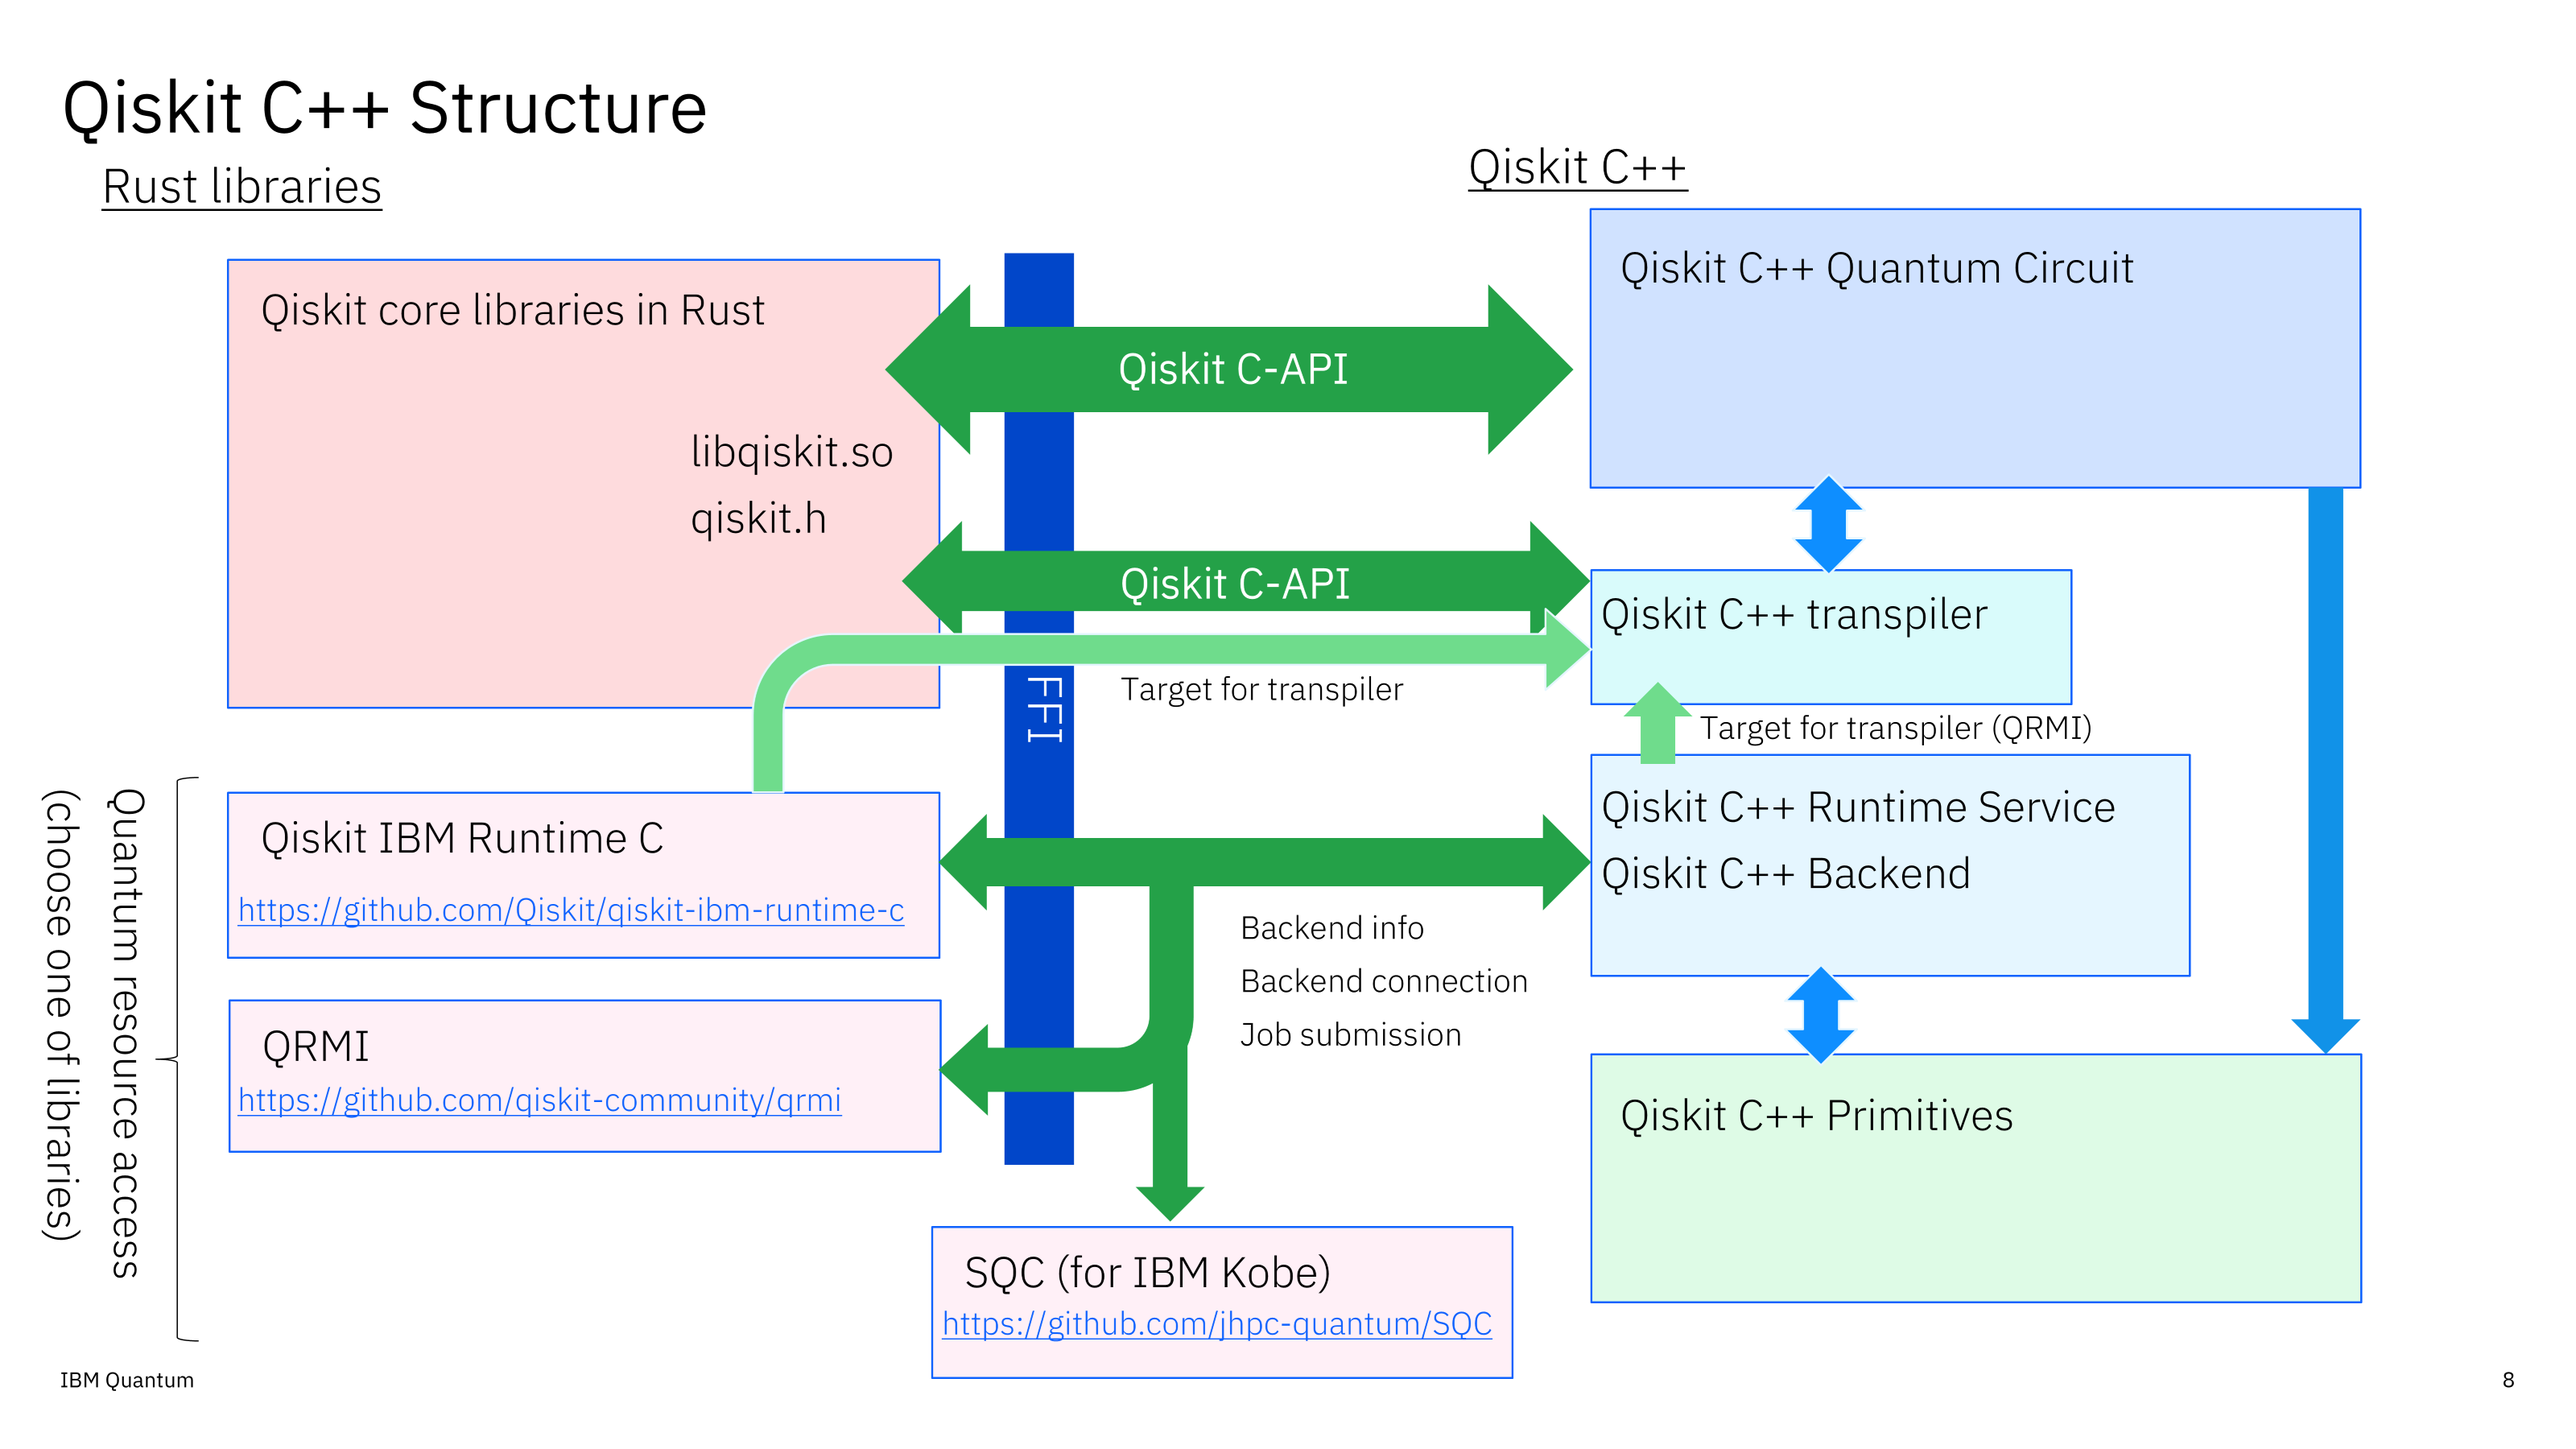
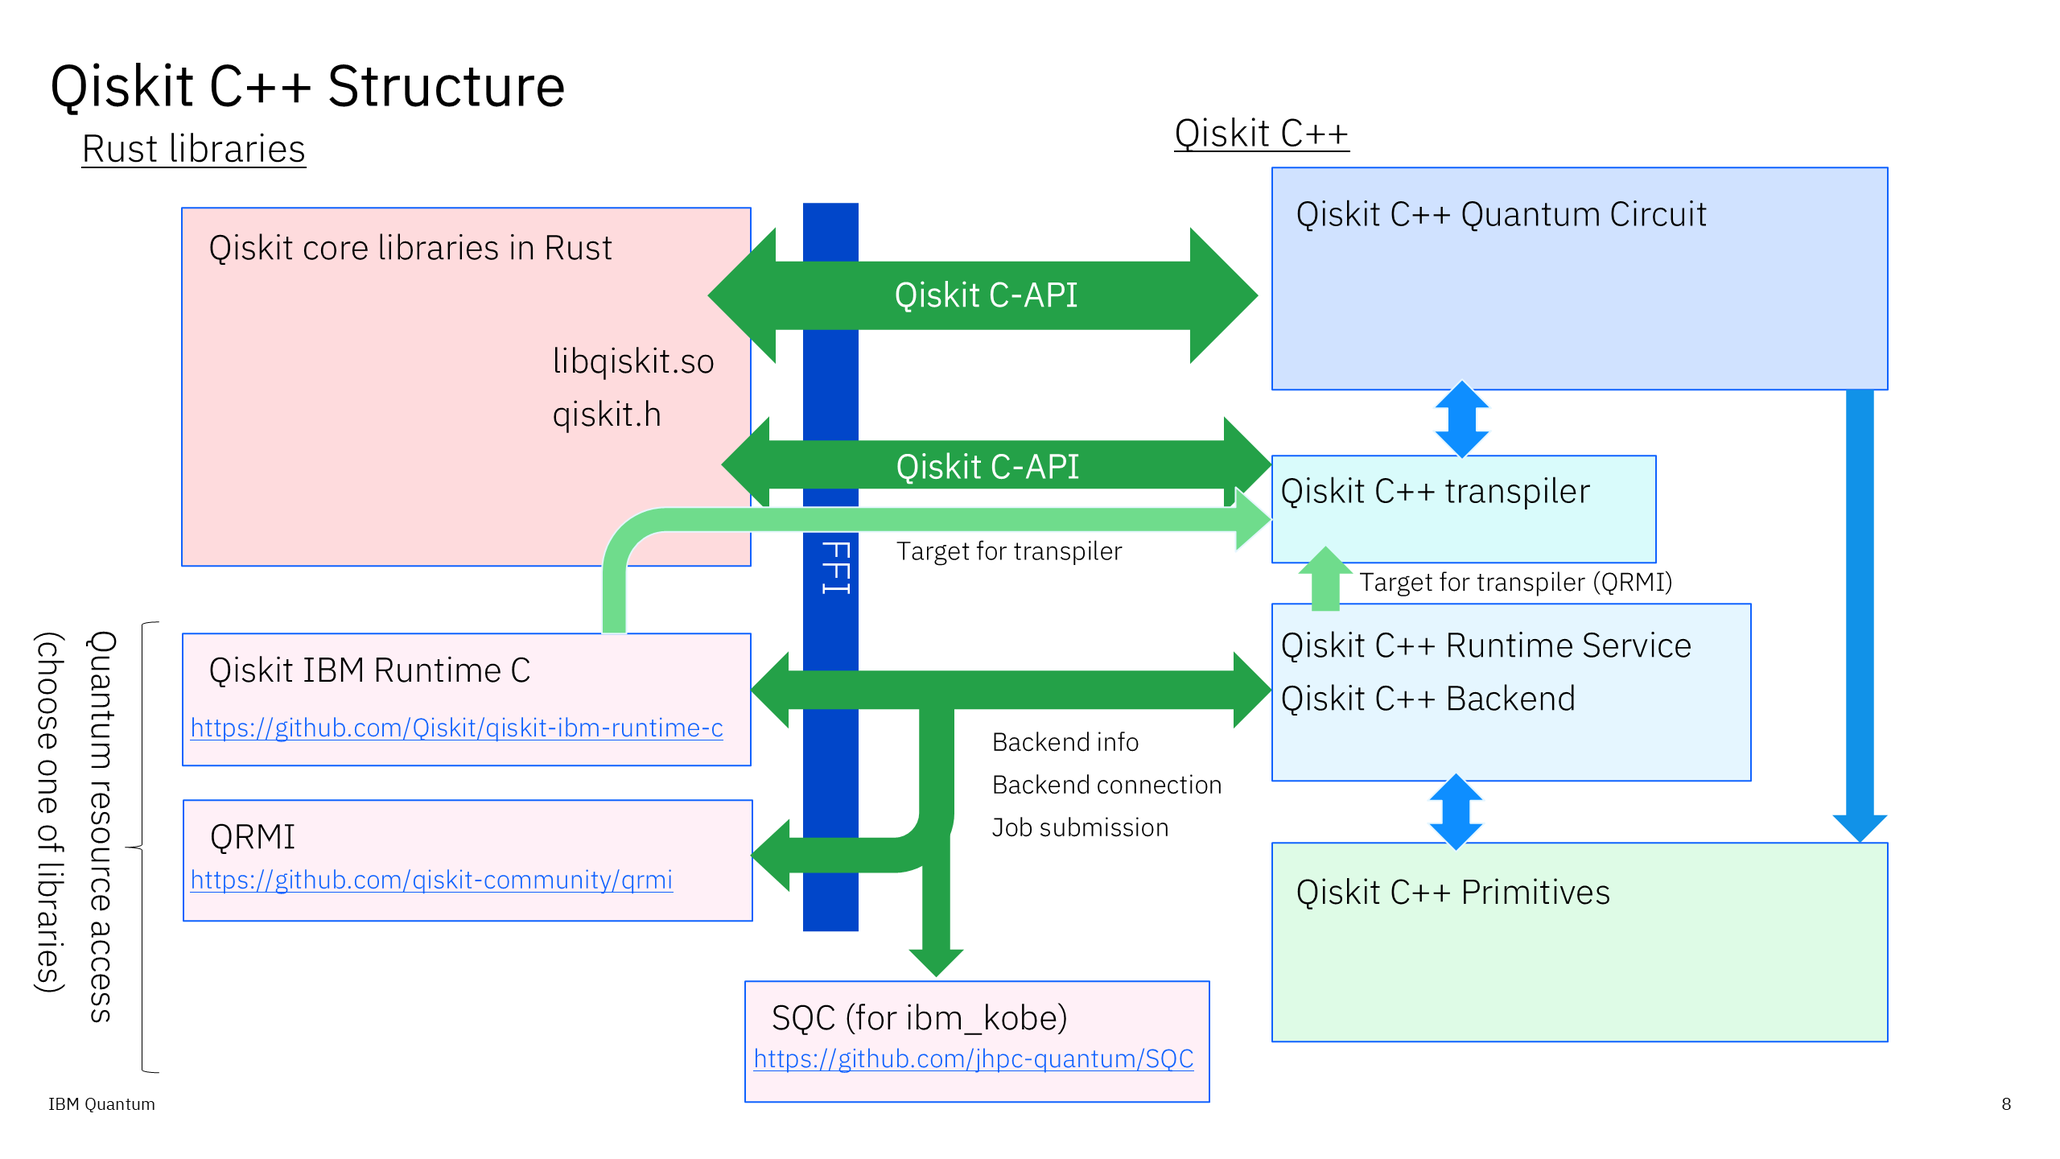
small fixes

diff --git a/tutorials/readme.md b/tutorials/readme.md
@@ -24,7 +24,7 @@ So it is easy to port Qiskit codes into your C++ applications using Qiskit C++.
 ![alt C-API and Qiskit C++ interface structure](qiskit-cpp-structure.png)
 This chart shows how Qiskit C++ is implemented by using Qiskit C-API. Qiskit C++ accesses Qiskit's core functions written in Rust through C-API.
 To access quantum resources, we use one of `QRMI` https://github.com/qiskit-community/qrmi, `Qiskit IBM Runtime C` https://github.com/Qiskit/qiskit-ibm-runtime-c
- or `SQC` https://github.com/jhpc-quantum/SQC through runtime class of Qiskit C++.
+ or `SQC` https://github.com/jhpc-quantum/SQC (for `ibm_kobe`) through runtime class of Qiskit C++.
 
 ## Getting started
 
